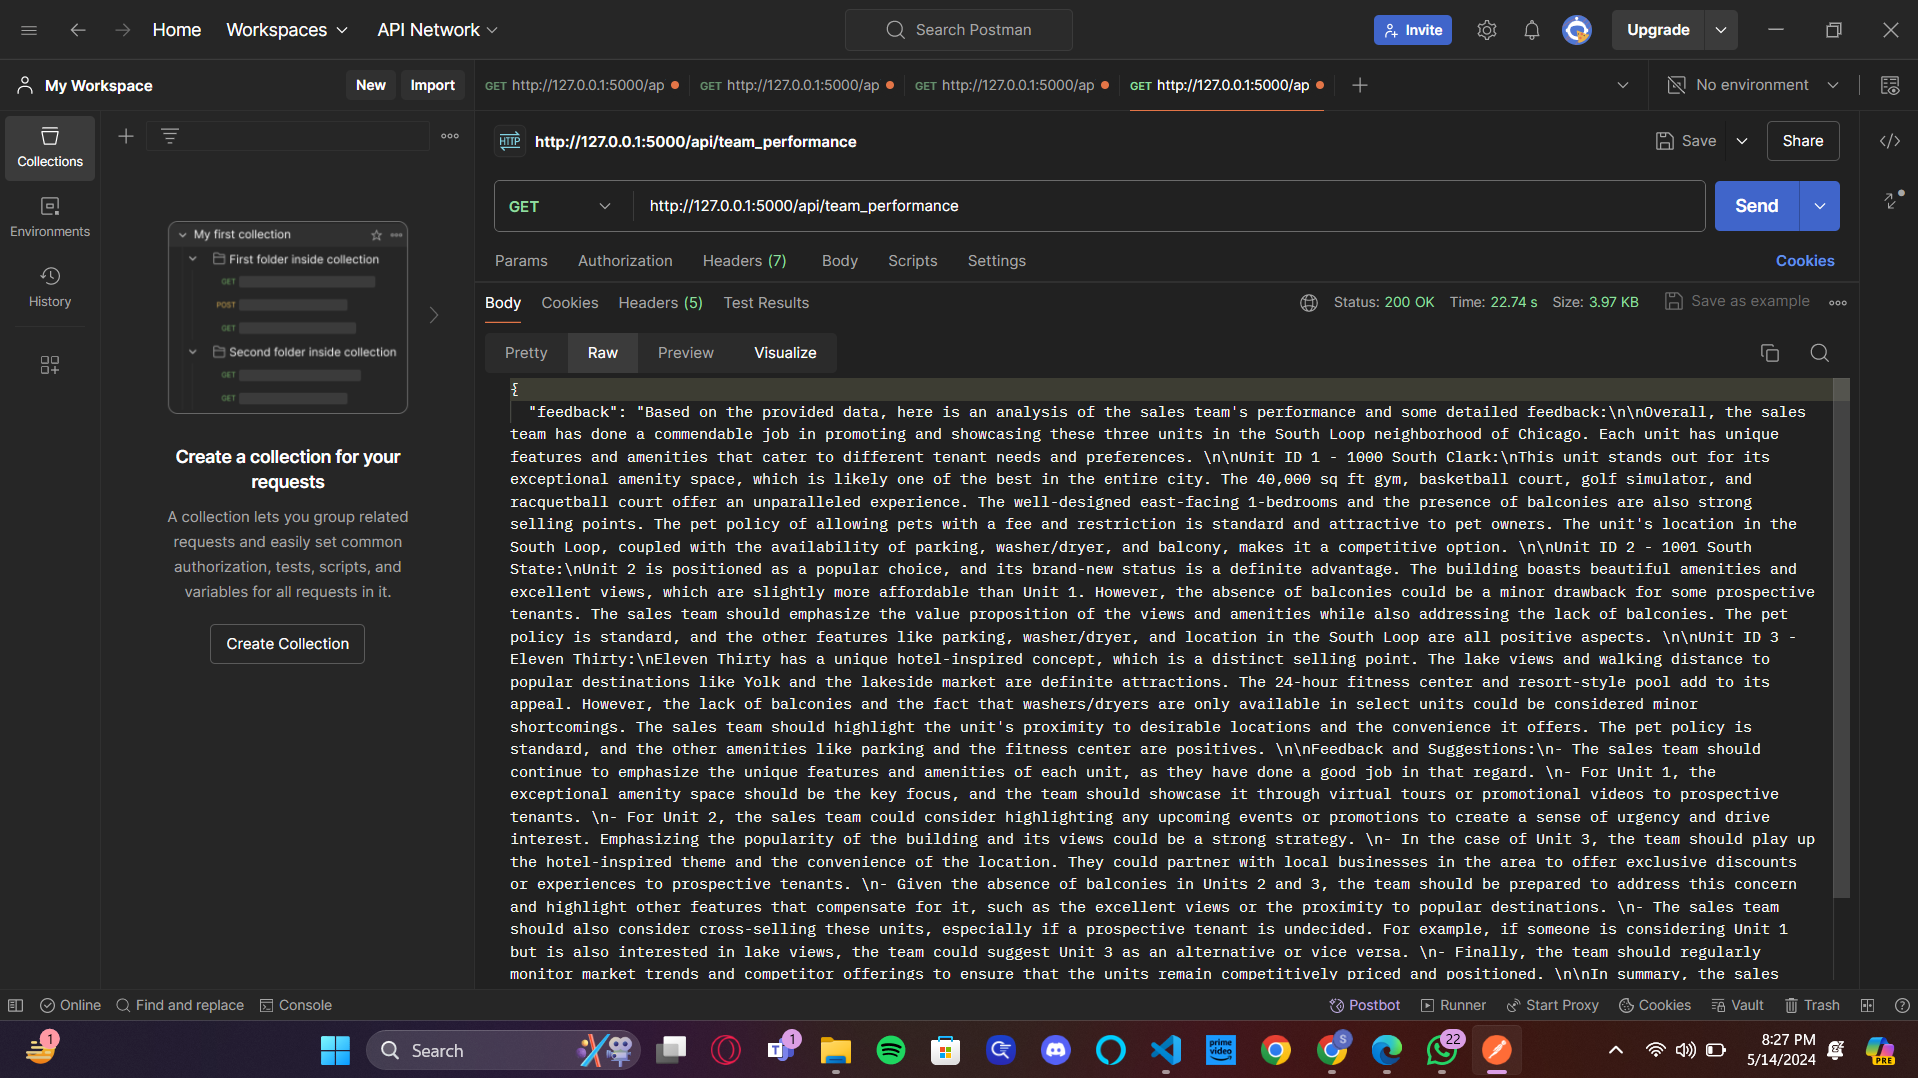
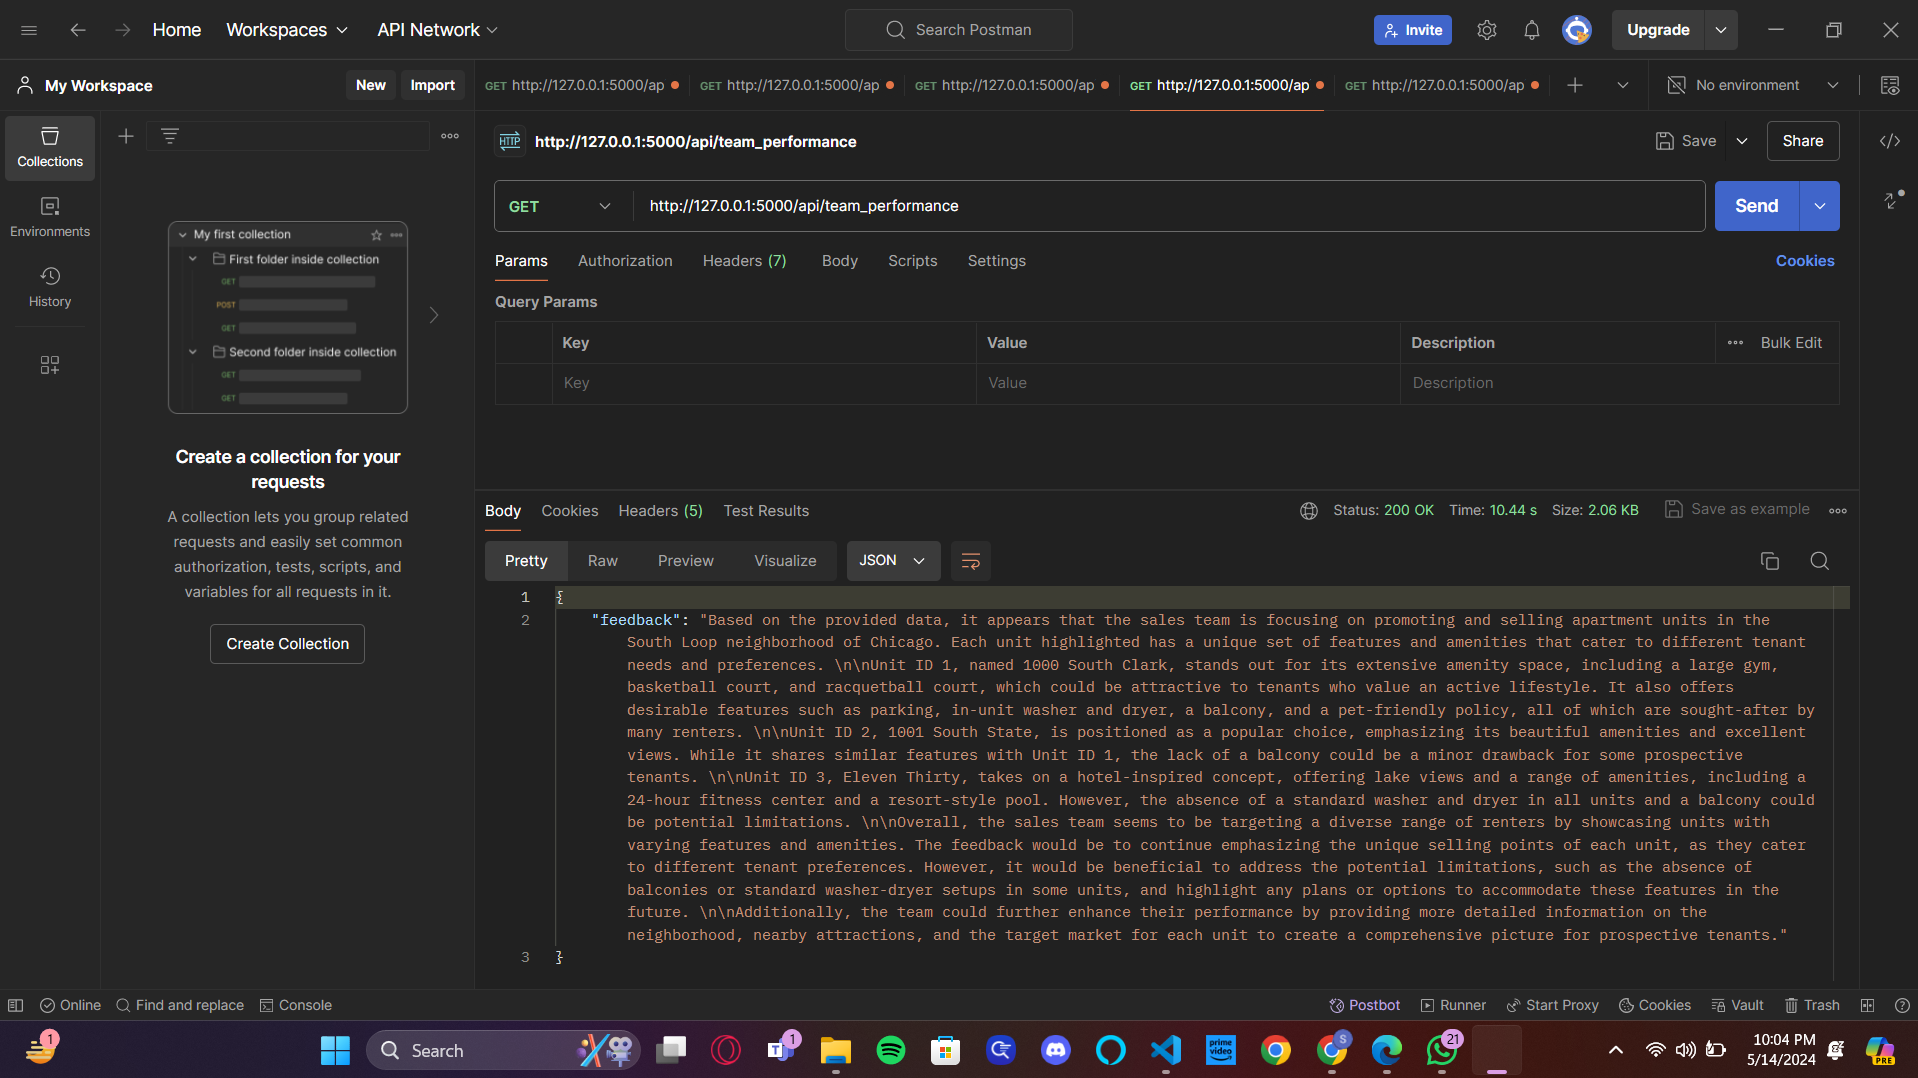
Result Images Added

diff --git a/app.py b/app.py
@@ -78,14 +78,14 @@ def create_detailed_prompt(data, analysis_type):
     if analysis_type == 'top_unit':
         prompt = "Analyze the following units and provide detailed feedback on which unit is the best:\n"
     elif analysis_type == 'unit_price_history':
-        prompt = "Analyze the following units and provide detailed feedback on which units have had the biggest price changes downwards:\n"
+        prompt = "Analyze the following units and provide feedback on which units have had the biggest price changes downwards. write to the point answer only:\n"
     elif analysis_type == 'building_deals':
         neighborhood = request.args.get('neighborhood')
-        prompt = f"Analyze the following units in the {neighborhood} neighborhood and provide detailed feedback on which buildings are the best deals:\n"
+        prompt = f"Analyze the following units in the {neighborhood} neighborhood and provide to the point feedback on which buildings are the best deals:\n"
     elif analysis_type == 'sales_rep_feedback':
-        prompt = "Analyze the performance of the sales representative and provide detailed feedback:\n"
+        prompt = "Analyze the performance of the sales representative and provide a short feedback:\n"
     elif analysis_type == 'team_performance':
-        prompt = "Analyze the overall performance of the sales team based on the following data and provide detailed feedback:\n"
+        prompt = "Analyze the overall performance of the sales team based on the following data and provide a short feedback:\n"
     else:
         prompt = "Analyze the following units:\n"
 
